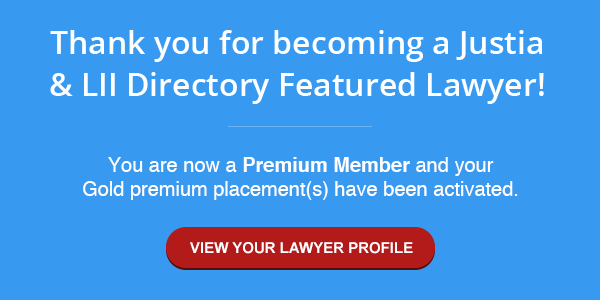
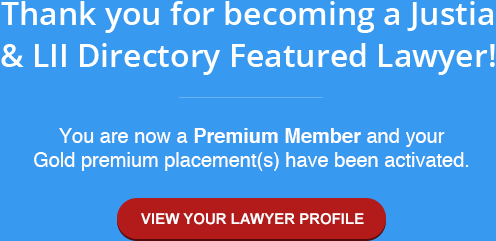
Claimed Gold

diff --git a/dist/claimed-gold.html b/dist/claimed-gold.html
@@ -140,23 +140,18 @@ a[href^=tel],
         <tr>
             <td width="100%"  bgcolor="#3799f0" valign="top" style="text-align: center; padding: 30px 25px;" align="center">
                 <a href="#" style="cursor: pointer; color: #0a56c6; text-decoration: none;">
-                    <img alt="Sample" src="../dist/img/closedwon-header-button-01.png" tabindex="0" width="494" height="240" border="0" style="display: block; margin: 0 auto;">
+                    <img alt="Sample" src="../dist/img/cw-claimed-gold-button-01.png" tabindex="0" width="496" height="241" border="0" style="display: block; margin: 0 auto;">
                 </a>
             </td>
         </tr>
         <tr>
-            <td width="100%"  bgcolor="#ffffff" style="text-align: center; margin: 0; Margin: 0; padding: 43px 30px 15px;" align="center">
-                <p  style="font-weight: 400; margin: 0; Margin: 0; font-family: Helvetica, Arial, sans-serif; font-size: 20px; line-height: 1.5; color: #02337c;"><strong>YOUR PROFILE IS IMPORTANT TO YOUR SUCCESS</strong></p>
-            </td>
-        </tr>
-        <tr>
-            <td width="100%"  bgcolor="#ffffff" style="text-align: left; margin: 0; Margin: 0; padding: 20px 30px 15px;" align="left">
+            <td width="100%"  bgcolor="#ffffff" style="text-align: left; margin: 0; Margin: 0; padding: 42px 30px 6px;" align="left">
                 <p style="font-weight: 400; margin: 0; Margin: 0; font-family: Helvetica,Arial,sans-serif; font-size: 20px; line-height: 1.5; color: #555555;"><strong>1. PROFILE PHOTO</strong></p>
             </td>
         </tr>
         <tr>
             <td width="100%"  bgcolor="#ffffff" style="text-align: center; padding: 7px 30px 15px;" align="center">
-                <img alt="Sample" src="../dist/img/closedwon-step-01.jpg" tabindex="0" width="545" height="504" border="0" style="margin: 0 auto; display: block;">
+                <img alt="Sample" src="../dist/img/cw-claimed-gold-01.jpg" tabindex="0" width="545" height="264" border="0" style="margin: 0 auto; display: block;">
             </td>
         </tr>
         <tr>
@@ -167,51 +162,56 @@ a[href^=tel],
         <tr>
             <td width="100%"  bgcolor="#ffffff" valign="top" style="text-align: center; padding: 0 25px;" align="center">
                 <a href="#" style="cursor: pointer; color: #0a56c6; text-decoration: none;">
-                    <img alt="Sample" src="../dist/img/closedwon-step-button-01.png" tabindex="0" width="249" height="43" border="0"  style="display: block; margin: 0 auto;">
+                    <img alt="Sample" src="../dist/img/cw-claimed-gold-button-02.png" tabindex="0" width="249" height="43" border="0"  style="display: block; margin: 0 auto;">
                 </a>
             </td>
         </tr>
         <tr>
             <td width="100%"  bgcolor="#ffffff" style="text-align: left; padding: 94px 30px 15px;" align="left">
-                <p  style="font-weight: 400; margin: 0; Margin: 0; font-family: Helvetica, Arial, sans-serif; font-size: 20px; line-height: 1.5; color: #555555;"><strong>2. BIOGRAPHY</strong></p>
+                <p  style="font-weight: 400; margin: 0; Margin: 0; font-family: Helvetica, Arial, sans-serif; font-size: 20px; line-height: 1.5; color: #555555;"><strong>2. CUSTOM TAGLINE</strong></p>
             </td>
         </tr>
         <tr>
             <td width="100%"  bgcolor="#ffffff" style="text-align: center; padding: 7px 30px 15px;" align="center">
-                <img alt="Sample" src="../dist/img/closedwon-step-02.jpg" tabindex="0" width="545" height="504" border="0" style="display: block; margin: 0 auto;">
+                <img alt="Sample" src="../dist/img/cw-claimed-gold-02.jpg" tabindex="0" width="545" height="264" border="0" style="display: block; margin: 0 auto;">
             </td>
         </tr>
         <tr>
             <td width="100%"  bgcolor="#ffffff" style="text-align: left; padding: 10px 30px 24px;" align="left">
-                <p  style="margin: 0; Margin: 0; font-family: Helvetica,Arial,sans-serif; font-size: 16px; line-height: 1.5; font-weight: 300; color: #555555;">Include a short biography to introduce yourself to potential clients. A well-written biography highlights your practice and shows off your passion for the law.</p>
+                <p  style="margin: 0; Margin: 0; font-family: Helvetica,Arial,sans-serif; font-size: 16px; line-height: 1.5; font-weight: 300; color: #555555;">As part of your Gold premium placements you can also add a <strong>custom tagline</strong> of up to 80 characters (with spaces) for each Gold placement purchased, highlighting experience or giving a call to action for each of the placements.</p>
             </td>
         </tr>
         <tr>
             <td width="100%"  bgcolor="#ffffff" valign="top" style="text-align: center; padding: 0 25px;" align="center">
                 <a href="#" style="cursor: pointer; color: #0a56c6; text-decoration: none;">
-                    <img  alt="Sample" src="../dist/img/closedwon-step-button-02.png" tabindex="0" width="249" height="43" border="0" style="display: block; margin: 0 auto;">
+                    <img  alt="Sample" src="../dist/img/cw-claimed-gold-button-03.png" tabindex="0" width="249" height="43" border="0" style="display: block; margin: 0 auto;">
                 </a>
             </td>
         </tr>
         <tr>
             <td width="100%"  bgcolor="#ffffff" style="text-align: left; padding: 94px 30px 15px;" align="left">
-                <p  style="font-weight: 400; margin: 0; Margin: 0; font-family: Helvetica, Arial, sans-serif; font-size: 20px; line-height: 1.5; color: #555555;"><strong>3. SOCIAL MEDIA</strong></p>
+                <p  style="font-weight: 400; margin: 0; Margin: 0; font-family: Helvetica, Arial, sans-serif; font-size: 20px; line-height: 1.5; color: #555555;"><strong>3. CUSTOM "VIEW WEBSITE" LINK</strong></p>
             </td>
         </tr>
         <tr>
             <td width="100%"  bgcolor="#ffffff" style="text-align: center; padding: 7px 30px 15px;" align="center">
-                <img alt="Sample" src="../dist/img/closedwon-step-03.jpg" tabindex="0" width="410" height="59" border="0" style="display: block; margin: 0 auto;">
+                <img alt="Sample" src="../dist/img/cw-claimed-gold-03.jpg" tabindex="0" width="545" height="264" border="0" style="display: block; margin: 0 auto;">
+            </td>
+        </tr>
+        <tr>
+            <td width="100%"  bgcolor="#ffffff" style="text-align: left; padding: 10px 30px 14px;" align="left">
+                <p  style="margin: 0; Margin: 0; font-family: Helvetica,Arial,sans-serif; font-size: 16px; line-height: 1.5; font-weight: 300; color: #555555;">Additionally, your Gold premium placement also includes the ability to <strong>include a link to a custom URL</strong>. The "view website" button on your premium placement advertisement will link to the website address in your profile.</p>
             </td>
         </tr>
         <tr>
             <td width="100%"  bgcolor="#ffffff" style="text-align: left; padding: 10px 30px 24px;" align="left">
-                <p  style="margin: 0; Margin: 0; font-family: Helvetica,Arial,sans-serif; font-size: 16px; line-height: 1.5; font-weight: 300; color: #555555;">Connect your profile to your website, blog, and social media accounts. Professional connections are an important part of your profile. Don't just tell people you practice law, show them.</p>
+                <p  style="margin: 0; Margin: 0; font-family: Helvetica,Arial,sans-serif; font-size: 16px; line-height: 1.5; font-weight: 300; color: #555555;">However, if you'd like to customize it to link to a particular URL, such as a practice area page on your site, please send us a link for each Gold placement purchased and we’ll customize the "view website" button as instructed.</p>
             </td>
         </tr>
         <tr>
             <td width="100%"  bgcolor="#ffffff" valign="top" style="text-align: center; padding: 0 25px;" align="center">
                 <a href="#" style="cursor: pointer; color: #0a56c6; text-decoration: none;">
-                    <img  alt="Sample" src="../dist/img/closedwon-step-button-03.png" tabindex="0" width="249" height="43" border="0" style="display: block; margin: 0 auto;">
+                    <img  alt="Sample" src="../dist/img/cw-claimed-gold-button-04.png" tabindex="0" width="289" height="43" border="0" style="display: block; margin: 0 auto;">
                 </a>
             </td>
         </tr>
@@ -233,17 +233,17 @@ a[href^=tel],
             </td>
         </tr>
         <tr>
-            <td width="100%"  bgcolor="#ffffff" style="text-align: left; padding: 10px 30px 24px;" align="left">
+            <td width="100%"  bgcolor="#ffffff" style="text-align: left; padding: 10px 30px 17px;" align="left">
                 <p  style="margin: 0; Margin: 0; font-family: Helvetica,Arial,sans-serif; font-size: 16px; line-height: 1.5; font-weight: 300; color: #555555;">Our data shows that lawyers who complete their profiles in our directory receive 76 times more client contacts than those with incomplete profiles. We suggest adding a short biography, updating contact information, participate in <a target="_blank" href="#" style="cursor: pointer; text-decoration: none; color: #0a56c6;"><strong>Ask a Lawyer</strong></a>, and adding your social media profiles, etc.</p>
             </td>
         </tr>
         <tr>
-            <td width="100%"  bgcolor="#ffffff" style="text-align: left; padding: 23px 30px 24px;" align="left">
+            <td width="100%"  bgcolor="#ffffff" style="text-align: left; padding: 0 30px 24px;" align="left">
                 <p  style="margin: 0; Margin: 0; font-family: Helvetica,Arial,sans-serif; font-size: 16px; line-height: 1.5; font-weight: 300; color: #555555;">Thank You!</p>
             </td>
         </tr>
         <tr>
-            <td width="100%"  bgcolor="#ffffff" style="text-align: left; padding: 0 30px 53px;" align="left">
+            <td width="100%"  bgcolor="#ffffff" style="text-align: left; padding: 0 30px 40px;" align="left">
                 <p  style="margin: 0; Margin: 0; font-family: Helvetica,Arial,sans-serif; font-size: 16px; line-height: 1.5; font-weight: 300; color: #555555;">Justia & LII Lawyer Directory Team</p>
                 <p  style="margin: 0; Margin: 0; font-family: Helvetica,Arial,sans-serif; font-size: 16px; line-height: 1.5; font-weight: 300; color: #555555;"><a target="_blank" href="#" style="cursor: pointer; text-decoration: none; color: #0a56c6;"><strong>(650) 810-1990</strong></a> Office</p>
                 <p  style="margin: 0; Margin: 0; font-family: Helvetica,Arial,sans-serif; font-size: 16px; line-height: 1.5; font-weight: 300; color: #555555;"><a target="_blank" href="#" style="cursor: pointer; text-decoration: none; color: #0a56c6;"><strong>directory@justia.com</strong></a></p>
